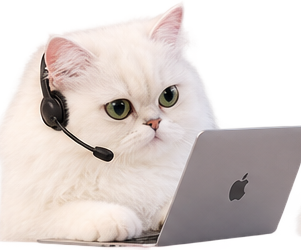
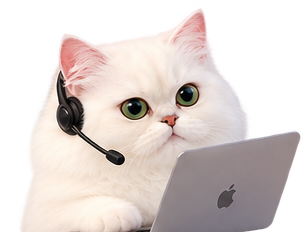
Pet Pet v2: new photo set, element-anchored peeks only
- Replace 8 old crops with 10 new better-cropped shots
- She now only peeks over the top edge of a below-the-fold element
  (section/form/card/footer); never floats free, never near the hero
- If no suitable anchor exists she sits the pageview out
- Click for quips (2 new), second click or 40s ducks her away

diff --git a/public/petpet.js b/public/petpet.js
@@ -1,5 +1,6 @@
 /* Pet Pet easter eggs — middle management has arrived.
- * Desktop only. Random placement, random timing. She does nothing, proudly.
+ * Desktop only. She ONLY ever peeks over the top edge of a page element
+ * (never floats free), and never appears near the top of the page (no heroes).
  * Include once per page with <script src="/petpet.js" defer></script>.
  */
 (function () {
@@ -16,6 +17,8 @@
   if (Math.random() > 0.5) return;
 
   var BASE = '/bum/petpet/';
+  var IMGS = ['peek.png', 'box.png', 'crown.png', 'wand.png', 'angry.png',
+              'spa.png', 'sleeping.png', 'pencil.png', 'pinkbow.png', 'headset.png'];
   var QUIPS = [
     'leave it to bum bum.',
     'per my last email…',
@@ -28,27 +31,20 @@
     'i approved the snacks. you\u2019re welcome.',
     'that\u2019s above my pay grade. (my pay is zero.)',
     'have we tried\u2026 actually, bum bum handles that.',
-    'i don\u2019t make decisions. i delegate them.'
+    'i don\u2019t make decisions. i delegate them.',
+    'this meeting could have been an email.',
+    'i\u2019m just here so i won\u2019t get fined.'
   ];
-  var LOUNGERS = ['napping.png', 'ceo.png', 'blep.png', 'bowtie.png', 'yawn.png', 'headset.png'];
 
   function pick(arr) { return arr[Math.floor(Math.random() * arr.length)]; }
 
   var css = [
-    '.pp-wrap{position:fixed;z-index:2147483000;pointer-events:auto;cursor:pointer;line-height:0}',
-    '.pp-wrap img{display:block;width:100%;height:auto;border-radius:18px;user-select:none;-webkit-user-drag:none}',
-    '.pp-peek{width:150px;overflow:hidden}',
-    '.pp-peek .pp-crop{height:64px;overflow:hidden;border-radius:18px 18px 0 0}',
-    '.pp-peek .pp-crop img{width:150px;max-width:none}',
+    '.pp-wrap{position:fixed;z-index:2147483000;pointer-events:auto;cursor:pointer;line-height:0;width:150px}',
+    '.pp-crop{height:66px;overflow:hidden;border-radius:18px 18px 0 0}',
+    '.pp-crop img{display:block;width:150px;max-width:none;height:auto;user-select:none;-webkit-user-drag:none}',
     '.pp-bob{animation:pp-bob 2.6s ease-in-out infinite}',
     '@keyframes pp-bob{0%,100%{transform:translateY(0)}50%{transform:translateY(-7px)}}',
-    '.pp-slide-in{animation:pp-slide-in .7s cubic-bezier(.2,.9,.25,1.2)}',
-    '@keyframes pp-slide-in{from{transform:translateY(120%);opacity:0}to{transform:translateY(0);opacity:1}}',
-    '.pp-side-in{animation:pp-side-in .7s cubic-bezier(.2,.9,.25,1.2)}',
-    '@keyframes pp-side-in{from{transform:translateX(120%);opacity:0}to{transform:translateX(0);opacity:1}}',
-    '.pp-leave{transition:transform .6s ease-in,opacity .6s ease-in;transform:translateY(130%)!important;opacity:0!important}',
-    '.pp-leave-side{transition:transform .6s ease-in,opacity .6s ease-in;transform:translateX(130%)!important;opacity:0!important}',
-    '.pp-tag{font:600 10px/1.4 -apple-system,"Segoe UI",sans-serif;letter-spacing:.08em;text-transform:uppercase;color:#8C857B;background:rgba(232,235,233,.92);border:1px solid rgba(140,133,123,.35);border-radius:999px;padding:3px 9px;margin-top:6px;display:inline-block;line-height:1.4}',
+    '.pp-duck{transition:transform .55s ease-in,opacity .55s ease-in;transform:translateY(70px)!important;opacity:0!important}',
     '.pp-bubble{position:absolute;bottom:calc(100% + 10px);right:0;min-width:170px;max-width:230px;background:#E8EBE9;color:#1E2321;border:1px solid rgba(140,133,123,.4);border-radius:14px;padding:10px 13px;font:500 13px/1.45 -apple-system,"Segoe UI",sans-serif;box-shadow:0 8px 24px rgba(30,35,33,.18);line-height:1.45;cursor:pointer}',
     '.pp-bubble:after{content:"";position:absolute;top:100%;right:34px;border:8px solid transparent;border-top-color:#E8EBE9}',
     '.pp-bubble small{display:block;margin-top:6px;font-size:10px;letter-spacing:.08em;text-transform:uppercase;color:#8C857B}'
@@ -58,174 +54,98 @@
   style.textContent = css;
   document.head.appendChild(style);
 
-  function makeWrap(img, cls, label) {
-    var wrap = document.createElement('div');
-    wrap.className = 'pp-wrap ' + cls;
-    wrap.setAttribute('role', 'img');
-    wrap.setAttribute('aria-label', 'Pet Pet, middle management, is here');
-    wrap.title = 'pet pet · middle management';
-    var im = document.createElement('img');
-    im.src = BASE + img;
-    im.alt = 'Pet Pet the cat';
-    im.draggable = false;
-    wrap.appendChild(im);
-    if (label) {
-      var tag = document.createElement('span');
-      tag.className = 'pp-tag';
-      tag.textContent = 'pet pet · middle mgmt';
-      wrap.appendChild(tag);
-    }
-    document.body.appendChild(wrap);
-    return wrap;
-  }
-
-  function bubble(wrap) {
-    var b = document.createElement('div');
-    b.className = 'pp-bubble';
-    b.innerHTML = '';
-    b.appendChild(document.createTextNode(pick(QUIPS)));
-    var s = document.createElement('small');
-    s.textContent = 'pet pet · middle management';
-    b.appendChild(s);
-    wrap.appendChild(b);
-    var t = setTimeout(function () { if (b.parentNode) b.parentNode.removeChild(b); }, 4500);
-    b.addEventListener('click', function (ev) { ev.stopPropagation(); clearTimeout(t); leave(wrap, true); });
-    return b;
-  }
-
-  function leave(wrap, fast) {
-    var side = wrap.classList.contains('pp-side');
-    wrap.classList.remove('pp-bob', 'pp-slide-in', 'pp-side-in');
-    wrap.classList.add(side ? 'pp-leave-side' : 'pp-leave');
-    setTimeout(function () { if (wrap.parentNode) wrap.parentNode.removeChild(wrap); }, fast ? 650 : 650);
-  }
-
-  function wire(wrap, sideExit) {
-    var open = false;
-    if (sideExit) wrap.classList.add('pp-side');
-    wrap.addEventListener('click', function () {
-      if (open) { leave(wrap); open = false; return; }
-      open = true;
-      var b = bubble(wrap);
-      var mo = new MutationObserver(function () {
-        if (!b.parentNode) { open = false; mo.disconnect(); }
-      });
-      mo.observe(wrap, { childList: true });
-    });
-    // She gets bored and wanders off on her own eventually.
-    setTimeout(function () { if (wrap.parentNode && !open) leave(wrap); }, 45000);
-  }
-
   function visible(el) {
     var r = el.getBoundingClientRect();
     var cs = window.getComputedStyle(el);
     return r.width > 0 && r.height > 0 && cs.visibility !== 'hidden' && cs.display !== 'none';
   }
 
-  /* Mode 1: poking her head over the top of a form. */
-  function formPeek() {
-    var forms = Array.prototype.filter.call(document.querySelectorAll('form'), function (f) {
-      if (!visible(f)) return false;
-      var r = f.getBoundingClientRect();
-      return r.width >= 280 && r.height >= 120;
-    });
-    if (!forms.length) return false;
-    var form = forms[0];
-    var wrap = makeWrap('peek-form.png', 'pp-peek pp-bob', false);
-    var inner = document.createElement('div');
-    inner.className = 'pp-crop';
-    var img = wrap.querySelector('img');
-    wrap.insertBefore(inner, img);
-    inner.appendChild(img);
+  // Anchor candidates: roomy elements sitting at/below the fold — never the hero.
+  function findAnchor() {
+    var fold = window.innerHeight * 0.75;
+    var cands = Array.prototype.filter.call(
+      document.querySelectorAll('main section, main article, main form, form, .card, .tool-card, footer.footer'),
+      function (el) {
+        if (!visible(el)) return false;
+        if (el.closest('header')) return false;
+        var r = el.getBoundingClientRect();
+        return r.width >= 280 && r.height >= 160 && r.top >= fold;
+      }
+    );
+    if (!cands.length) return null;
+    // She has a soft spot for looming over forms.
+    var forms = cands.filter(function (el) { return el.tagName === 'FORM'; });
+    if (forms.length && Math.random() < 0.6) return pick(forms);
+    return pick(cands);
+  }
 
+  function start() {
+    var anchor;
+    try { anchor = findAnchor(); } catch (e) { anchor = null; }
+    if (!anchor) return; // No suitable element below the fold: she sits this one out.
+
+    var wrap = document.createElement('div');
+    wrap.className = 'pp-wrap pp-bob';
+    wrap.setAttribute('role', 'img');
+    wrap.setAttribute('aria-label', 'Pet Pet, middle management, is peeking over this section');
+    wrap.title = 'pet pet · middle management';
+    var crop = document.createElement('div');
+    crop.className = 'pp-crop';
+    var img = document.createElement('img');
+    img.src = BASE + pick(IMGS);
+    img.alt = 'Pet Pet the cat peeking over the page';
+    img.draggable = false;
+    crop.appendChild(img);
+    wrap.appendChild(crop);
+    wrap.style.display = 'none';
+    document.body.appendChild(wrap);
+
+    // Lock her horizontal perch per pageview; track the anchor vertically.
+    var xRatio = 0.15 + Math.random() * 0.55;
     var raf = 0;
     function place() {
       raf = 0;
-      var r = form.getBoundingClientRect();
-      if (r.bottom < -80 || r.top > window.innerHeight + 80) {
+      var r = anchor.getBoundingClientRect();
+      if (r.bottom < -40 || r.top > window.innerHeight + 40) {
         wrap.style.display = 'none';
         return;
       }
       wrap.style.display = '';
-      var x = r.left + r.width * (0.25 + Math.random() * 0.5) - 75;
+      var x = r.left + r.width * xRatio - 75;
       x = Math.max(8, Math.min(window.innerWidth - 158, x));
       wrap.style.left = x + 'px';
       wrap.style.top = (r.top - 62) + 'px';
     }
     function schedule() { if (!raf) raf = requestAnimationFrame(place); }
-    // Randomize once per pageview, not on every scroll.
-    var lockedX = null;
-    var origPlace = place;
-    place = function () {
-      origPlace();
-      if (lockedX === null && wrap.style.left) lockedX = wrap.style.left;
-      else if (lockedX !== null) wrap.style.left = lockedX;
-    };
     window.addEventListener('scroll', schedule, { passive: true });
     window.addEventListener('resize', schedule);
-    place();
-    wire(wrap, false);
-    return true;
-  }
+    // Reveal after a beat, so she pops in as a surprise mid-scroll.
+    setTimeout(place, 1200 + Math.random() * 2500);
 
-  /* Mode 2: lounging at the bottom corner of the page. */
-  function bottomLounge() {
-    var wrap = makeWrap(pick(LOUNGERS), 'pp-slide-in', true);
-    wrap.style.right = '18px';
-    wrap.style.bottom = '-26px';
-    wrap.style.width = '150px';
-    wrap.style.display = 'none';
-    setTimeout(function () {
-      if (!wrap.parentNode) return;
-      wrap.style.display = '';
-      // re-trigger entrance now that she's visible
-      wrap.classList.remove('pp-slide-in');
-      void wrap.offsetWidth;
-      wrap.classList.add('pp-slide-in');
-    }, 2000 + Math.random() * 5000);
-    wire(wrap, false);
-    return true;
-  }
-
-  /* Mode 3: peeking out from behind a content card. */
-  function cardPeek() {
-    var cands = Array.prototype.filter.call(
-      document.querySelectorAll('main section, main article, .card, .tool-card'),
-      function (el) {
-        if (!visible(el)) return false;
-        var r = el.getBoundingClientRect();
-        return r.width >= 240 && r.height >= 160 && r.top > -200 && r.bottom < window.innerHeight + 400;
-      }
-    );
-    if (!cands.length) return false;
-    var el = pick(cands);
-    var wrap = makeWrap('peek-box.png', 'pp-side pp-side-in', false);
-    wrap.style.width = '110px';
-    var raf = 0;
-    function place() {
-      raf = 0;
-      var r = el.getBoundingClientRect();
-      if (r.bottom < -60 || r.top > window.innerHeight + 60) { wrap.style.display = 'none'; return; }
-      wrap.style.display = '';
-      wrap.style.left = Math.min(window.innerWidth - 46, r.right - 64) + 'px';
-      wrap.style.top = (r.top + r.height * (0.3 + Math.random() * 0.3)) + 'px';
+    var open = false;
+    function duck() {
+      wrap.classList.remove('pp-bob');
+      wrap.classList.add('pp-duck');
+      setTimeout(function () { if (wrap.parentNode) wrap.parentNode.removeChild(wrap); }, 600);
     }
-    function schedule() { if (!raf) raf = requestAnimationFrame(place); }
-    window.addEventListener('scroll', schedule, { passive: true });
-    window.addEventListener('resize', schedule);
-    place();
-    wire(wrap, true);
-    return true;
-  }
-
-  function start() {
-    // Weighted: form peek and bottom lounge are the stars.
-    var modes = [formPeek, formPeek, bottomLounge, bottomLounge, bottomLounge, cardPeek, cardPeek];
-    // Shuffle lightly and try until one sticks.
-    modes.sort(function () { return Math.random() - 0.5; });
-    for (var i = 0; i < modes.length; i++) {
-      try { if (modes[i]()) return; } catch (e) { /* try next */ }
-    }
+    wrap.addEventListener('click', function () {
+      if (open) { duck(); return; }
+      open = true;
+      var b = document.createElement('div');
+      b.className = 'pp-bubble';
+      b.appendChild(document.createTextNode(pick(QUIPS)));
+      var s = document.createElement('small');
+      s.textContent = 'pet pet · middle management';
+      b.appendChild(s);
+      wrap.appendChild(b);
+      var t = setTimeout(function () {
+        if (b.parentNode) b.parentNode.removeChild(b);
+        open = false;
+      }, 4500);
+      b.addEventListener('click', function (ev) { ev.stopPropagation(); clearTimeout(t); duck(); });
+    });
+    // She gets bored and ducks back behind the element on her own.
+    setTimeout(function () { if (wrap.parentNode && !open) duck(); }, 40000);
   }
 
   if (document.readyState === 'loading') {
